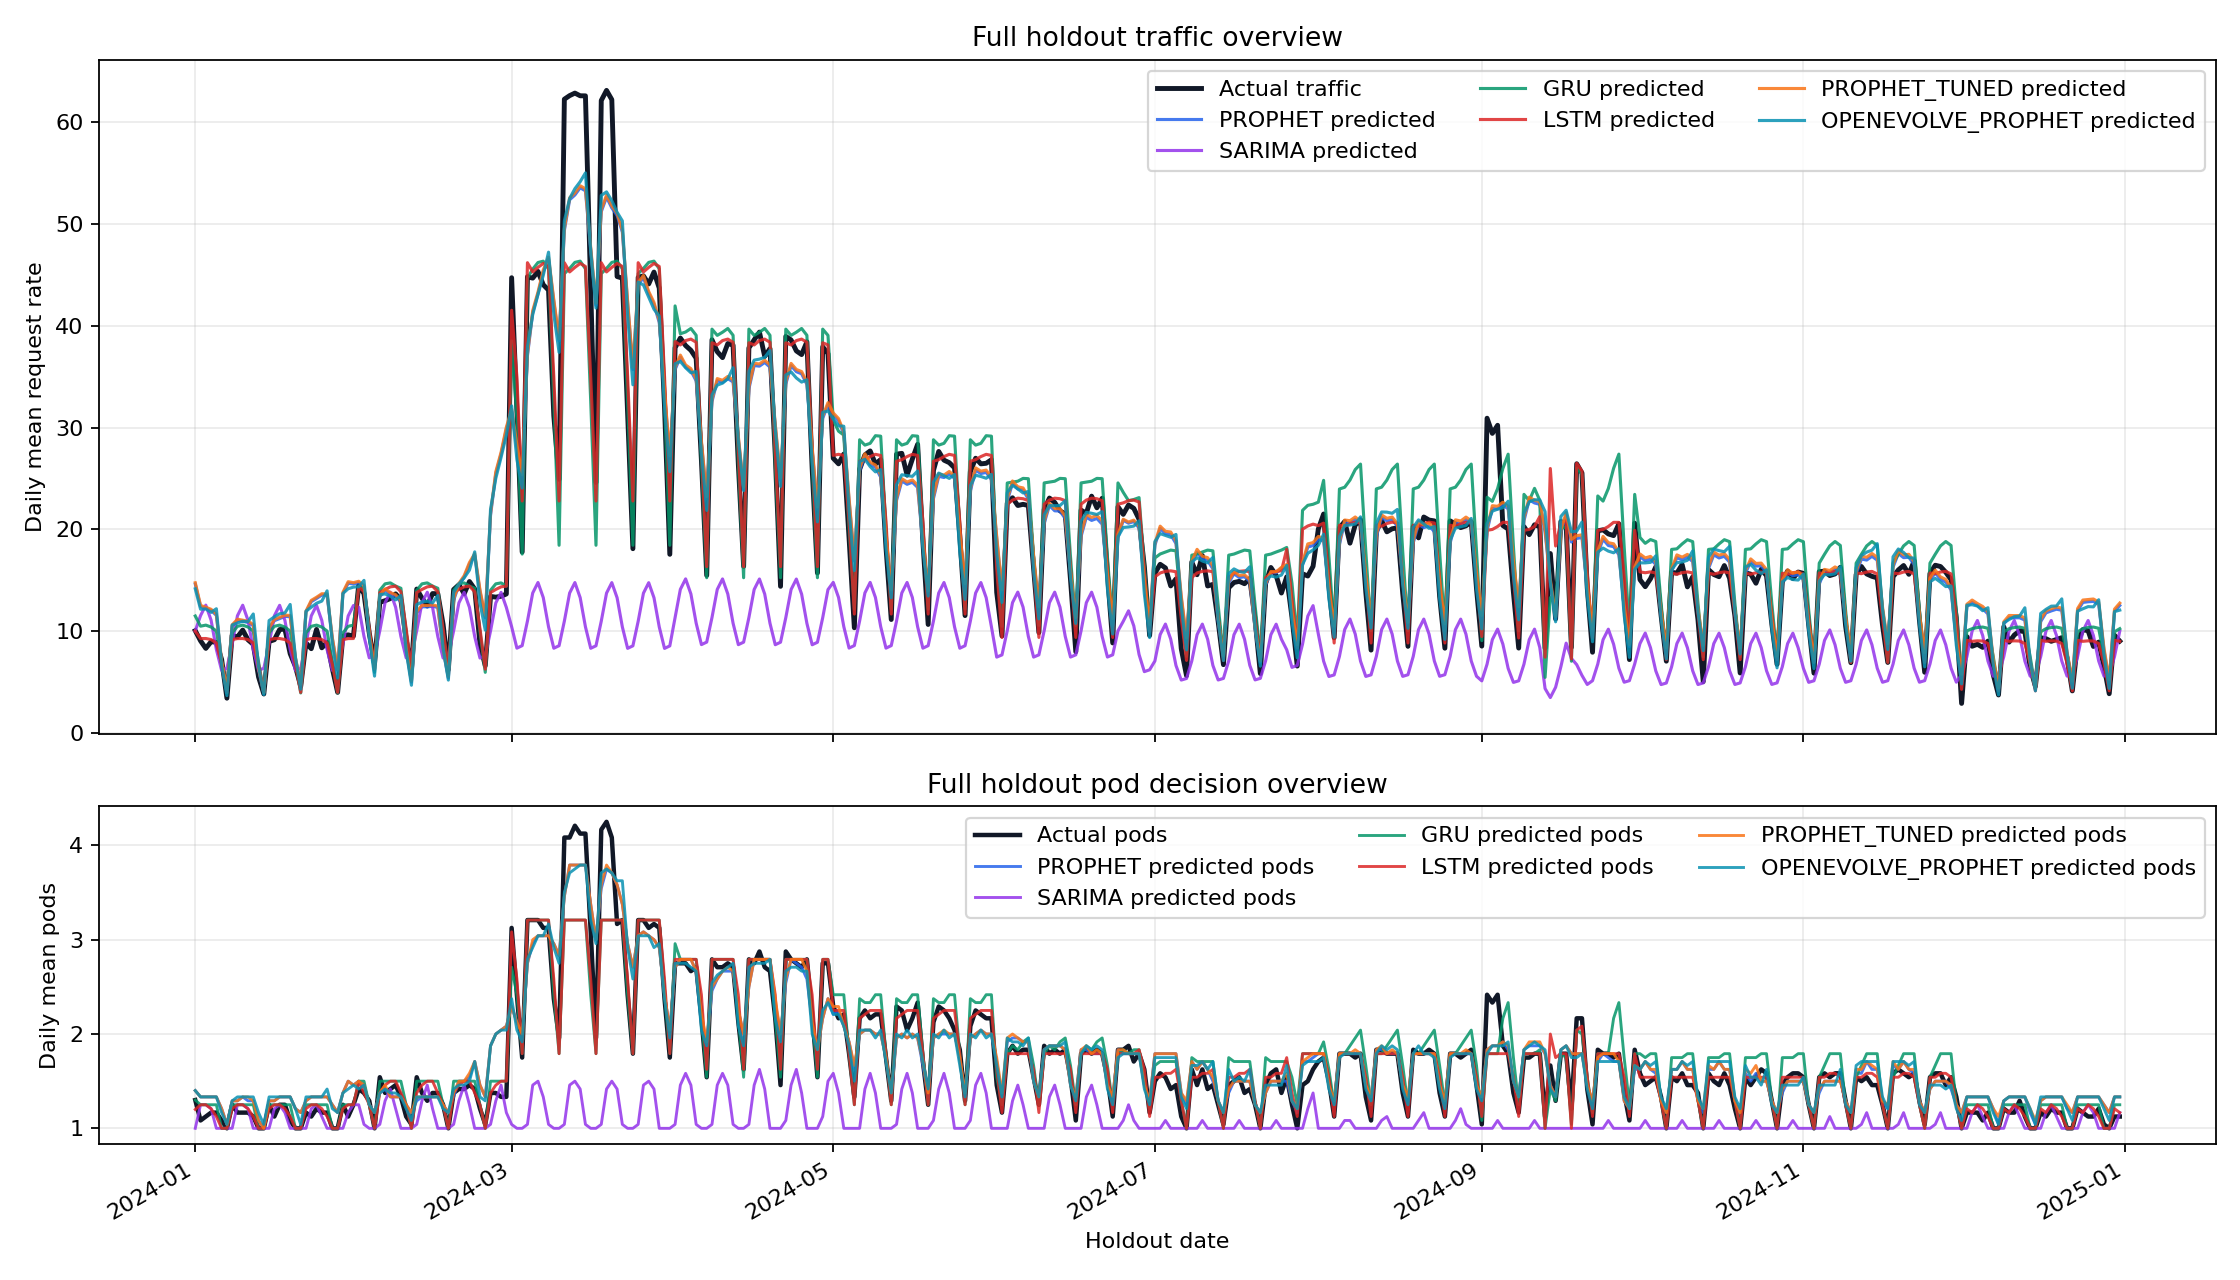
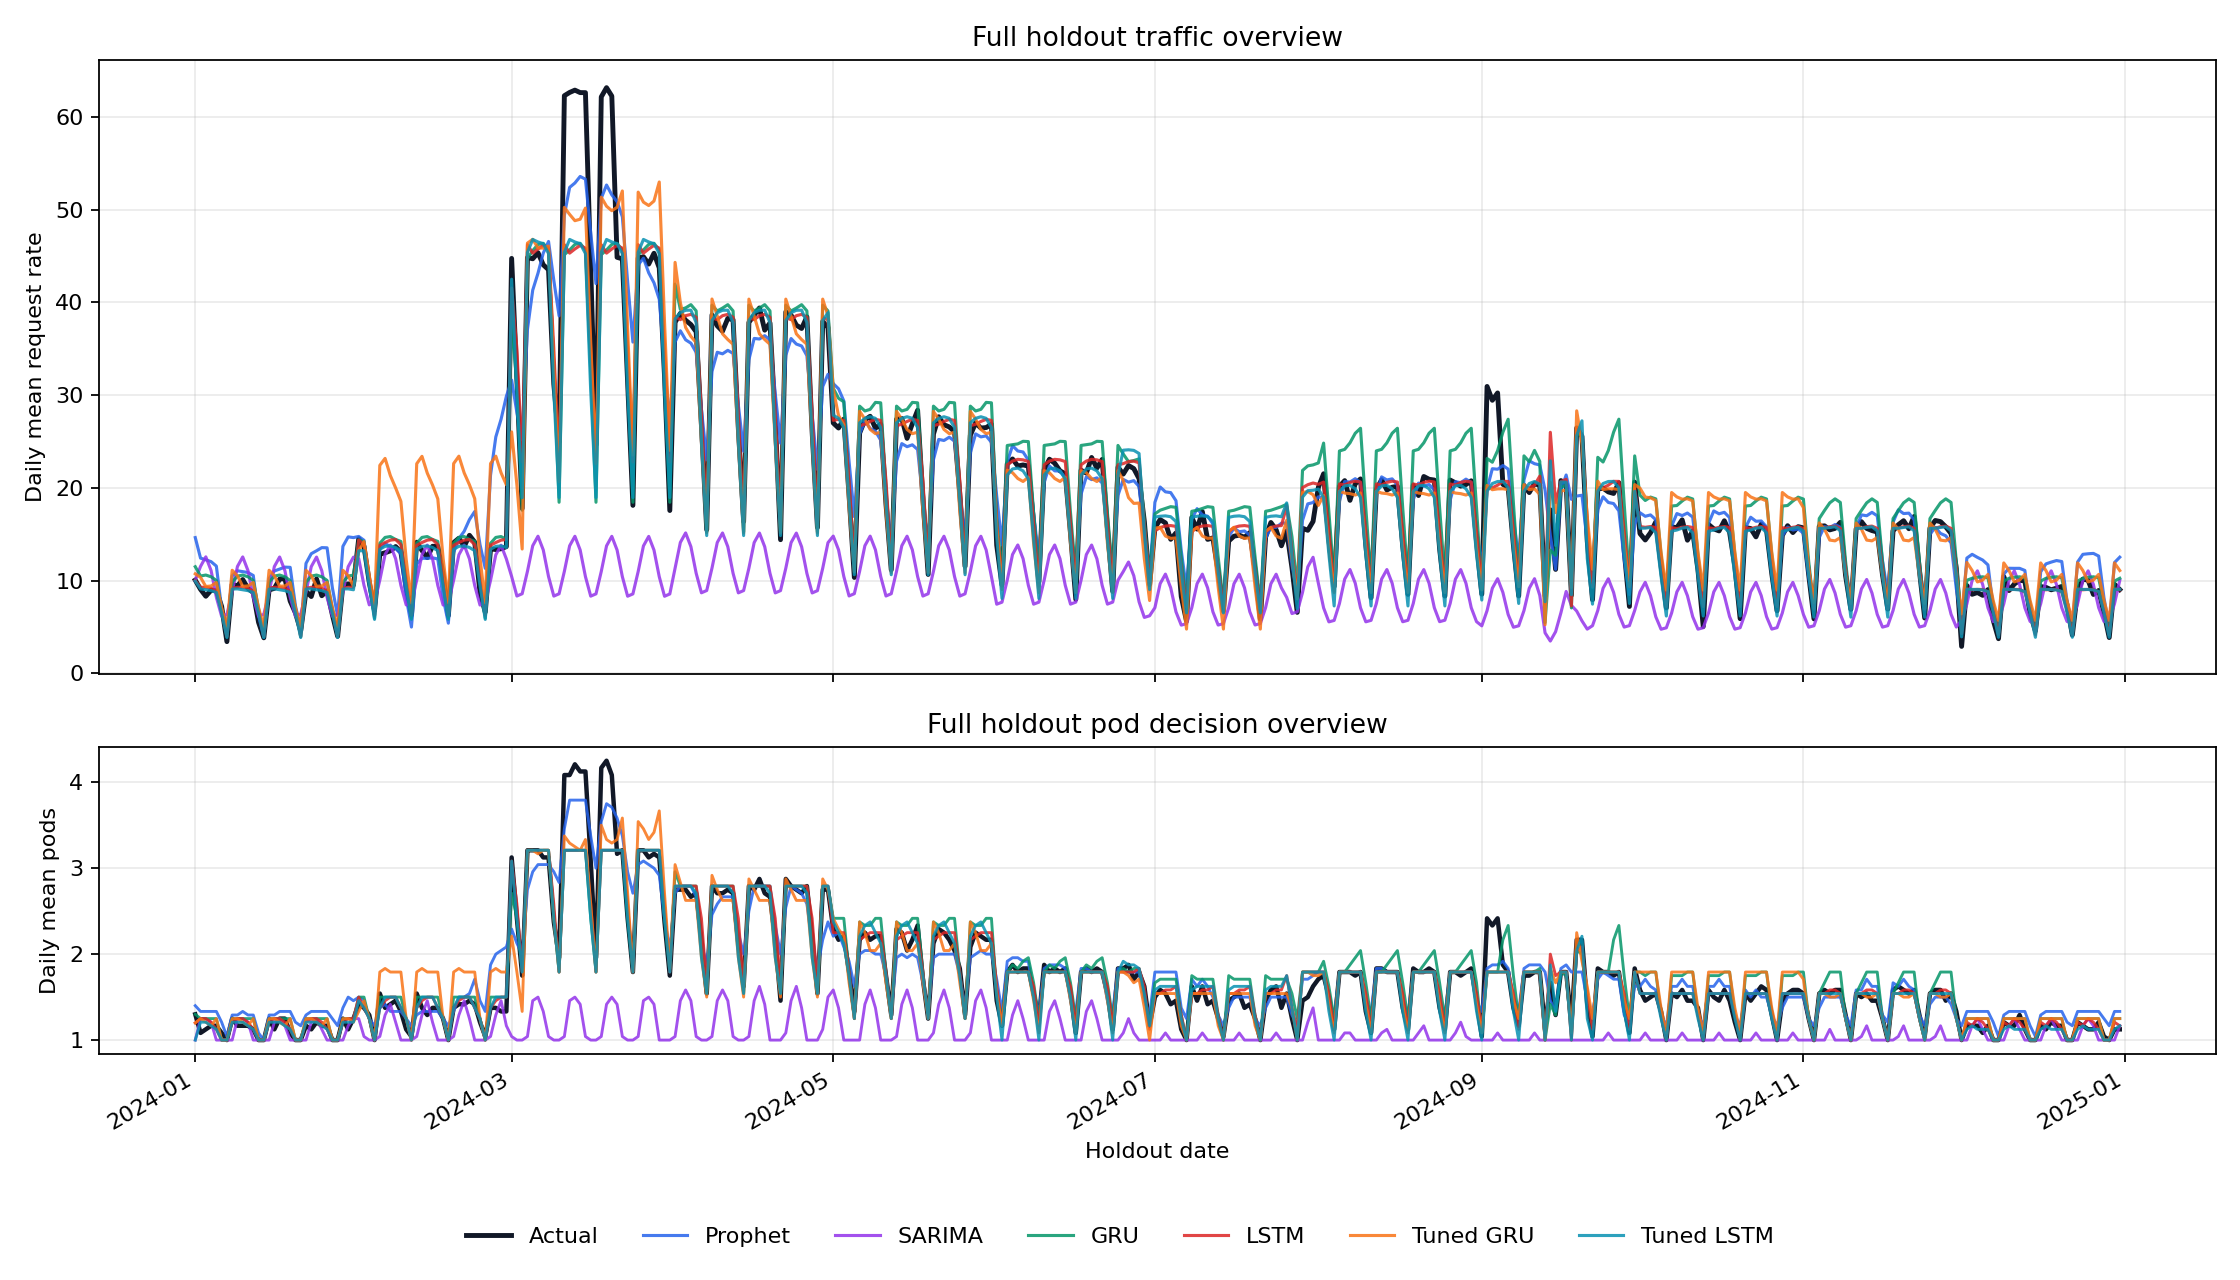
#25 feat: 튜닝 모델 비교 시각화 추가

diff --git a/src/evaluation/plot_sequence_tuning_comparison.py b/src/evaluation/plot_sequence_tuning_comparison.py
@@ -1,0 +1,95 @@
+"""Plot baseline vs tuned sequence model metrics."""
+
+from __future__ import annotations
+
+import argparse
+import json
+from pathlib import Path
+
+import matplotlib
+
+matplotlib.use("Agg")
+
+import matplotlib.pyplot as plt
+import pandas as pd
+
+
+PROJECT_ROOT = Path(__file__).resolve().parents[2]
+RESULTS_DIR = PROJECT_ROOT / "experiments" / "results"
+ASSETS_DIR = PROJECT_ROOT / "docs" / "assets"
+MODEL_PAIRS = {
+    "GRU": ("gru", "gru_tuned"),
+    "LSTM": ("lstm", "lstm_tuned"),
+}
+METRICS = [
+    ("smape", "SMAPE", "lower is better"),
+    ("pod_accuracy", "Pod accuracy", "higher is better"),
+    ("under_provisioning_rate", "Under-provisioning rate", "lower is better"),
+    ("over_provisioning_rate", "Over-provisioning rate", "lower is better"),
+]
+
+
+def parse_args() -> argparse.Namespace:
+    parser = argparse.ArgumentParser(description="Create baseline vs tuned sequence model metric plot.")
+    parser.add_argument("--results-dir", type=Path, default=RESULTS_DIR)
+    parser.add_argument("--output", type=Path, default=ASSETS_DIR / "sequence_tuning_metric_comparison.png")
+    return parser.parse_args()
+
+
+def load_metric(results_dir: Path, model: str) -> dict[str, float]:
+    path = results_dir / f"{model}_metrics.json"
+    if not path.exists():
+        raise FileNotFoundError(f"Metric file not found: {path}")
+
+    with path.open("r", encoding="utf-8") as file:
+        data = json.load(file)
+    return {name: float(data[name]) for name, _, _ in METRICS}
+
+
+def build_metric_frame(results_dir: Path) -> pd.DataFrame:
+    rows = []
+    for family, (baseline, tuned) in MODEL_PAIRS.items():
+        for label, model in [("Baseline", baseline), ("Tuned", tuned)]:
+            metrics = load_metric(results_dir, model)
+            rows.append({"family": family, "label": label, "model": model, **metrics})
+    return pd.DataFrame(rows)
+
+
+def plot_metric_frame(frame: pd.DataFrame, output_path: Path) -> None:
+    fig, axes = plt.subplots(2, 2, figsize=(11, 8))
+    axes = axes.flatten()
+    colors = {"Baseline": "#2563eb", "Tuned": "#f97316"}
+
+    for axis, (metric, title, direction) in zip(axes, METRICS):
+        pivot = frame.pivot(index="family", columns="label", values=metric).loc[["GRU", "LSTM"]]
+        pivot[["Baseline", "Tuned"]].plot(
+            kind="bar",
+            ax=axis,
+            color=[colors["Baseline"], colors["Tuned"]],
+            width=0.72,
+            legend=False,
+        )
+        axis.set_title(f"{title} ({direction})")
+        axis.set_xlabel("")
+        axis.set_ylabel(metric)
+        axis.tick_params(axis="x", rotation=0)
+        axis.grid(axis="y", alpha=0.25)
+
+    handles, labels = axes[0].get_legend_handles_labels()
+    fig.suptitle("Sequence Model Tuning: Baseline vs Tuned", fontsize=14, y=0.99)
+    fig.legend(handles, labels, loc="upper center", bbox_to_anchor=(0.5, 0.955), ncol=2, frameon=False)
+    fig.tight_layout(rect=(0, 0, 1, 0.91))
+    output_path.parent.mkdir(parents=True, exist_ok=True)
+    fig.savefig(output_path, dpi=160)
+    plt.close(fig)
+
+
+def main() -> None:
+    args = parse_args()
+    frame = build_metric_frame(args.results_dir)
+    plot_metric_frame(frame, args.output)
+    print(f"Saved sequence tuning metric comparison plot to {args.output}")
+
+
+if __name__ == "__main__":
+    main()

diff --git a/src/evaluation/plot_holdout_overview.py b/src/evaluation/plot_holdout_overview.py
@@ -1,4 +1,4 @@
-"""Plot one-year holdout overview for all candidate models."""
+"""Plot one-year holdout overview for baseline and tuned sequence candidates."""
 
 from __future__ import annotations
 
@@ -14,14 +14,22 @@ import pandas as pd
 
 
 PROJECT_ROOT = Path(__file__).resolve().parents[2]
-MODEL_NAMES = ("prophet", "sarima", "gru", "lstm", "prophet_tuned", "openevolve_prophet")
+MODEL_NAMES = ("prophet", "sarima", "gru", "lstm", "gru_tuned", "lstm_tuned")
 MODEL_COLORS = {
     "prophet": "#2563eb",
     "sarima": "#9333ea",
     "gru": "#059669",
     "lstm": "#dc2626",
-    "prophet_tuned": "#f97316",
-    "openevolve_prophet": "#0891b2",
+    "gru_tuned": "#f97316",
+    "lstm_tuned": "#0891b2",
+}
+MODEL_LABELS = {
+    "prophet": "Prophet",
+    "sarima": "SARIMA",
+    "gru": "GRU",
+    "lstm": "LSTM",
+    "gru_tuned": "Tuned GRU",
+    "lstm_tuned": "Tuned LSTM",
 }
 
 
@@ -90,12 +98,12 @@ def plot_overview(traffic: pd.DataFrame, pods: pd.DataFrame, output_path: Path) 
         gridspec_kw={"height_ratios": [2, 1]},
     )
 
-    traffic_ax.plot(traffic.index, traffic["actual"], label="Actual traffic", color="#111827", linewidth=2.2)
+    traffic_ax.plot(traffic.index, traffic["actual"], label="Actual", color="#111827", linewidth=2.2)
     for model in MODEL_NAMES:
         traffic_ax.plot(
             traffic.index,
             traffic[model],
-            label=f"{model.upper()} predicted",
+            label=MODEL_LABELS[model],
             color=MODEL_COLORS[model],
             linewidth=1.4,
             alpha=0.85,
@@ -104,14 +112,13 @@ def plot_overview(traffic: pd.DataFrame, pods: pd.DataFrame, output_path: Path) 
     traffic_ax.set_title("Full holdout traffic overview")
     traffic_ax.set_ylabel("Daily mean request rate")
     traffic_ax.grid(alpha=0.25)
-    traffic_ax.legend(ncol=3, loc="upper right")
 
-    pod_ax.plot(pods.index, pods["actual_pods"], label="Actual pods", color="#111827", linewidth=2.0)
+    pod_ax.plot(pods.index, pods["actual_pods"], label="Actual", color="#111827", linewidth=2.0)
     for model in MODEL_NAMES:
         pod_ax.plot(
             pods.index,
             pods[model],
-            label=f"{model.upper()} predicted pods",
+            label=MODEL_LABELS[model],
             color=MODEL_COLORS[model],
             linewidth=1.3,
             alpha=0.85,
@@ -121,10 +128,11 @@ def plot_overview(traffic: pd.DataFrame, pods: pd.DataFrame, output_path: Path) 
     pod_ax.set_ylabel("Daily mean pods")
     pod_ax.set_xlabel("Holdout date")
     pod_ax.grid(alpha=0.25)
-    pod_ax.legend(ncol=3, loc="upper right")
 
     fig.autofmt_xdate()
-    fig.tight_layout()
+    handles, labels = traffic_ax.get_legend_handles_labels()
+    fig.legend(handles, labels, loc="lower center", bbox_to_anchor=(0.5, 0.01), ncol=7, frameon=False)
+    fig.tight_layout(rect=(0, 0.07, 1, 1))
     output_path.parent.mkdir(parents=True, exist_ok=True)
     fig.savefig(output_path, dpi=160)
     plt.close(fig)

diff --git a/src/evaluation/compare_models.py b/src/evaluation/compare_models.py
@@ -13,7 +13,7 @@ import pandas as pd
 PROJECT_ROOT = Path(__file__).resolve().parents[2]
 RESULTS_DIR = PROJECT_ROOT / "experiments" / "results"
 PLOTS_DIR = PROJECT_ROOT / "experiments" / "plots"
-MODEL_NAMES = ["prophet", "sarima", "gru", "lstm", "prophet_tuned", "openevolve_prophet"]
+MODEL_NAMES = ["prophet", "sarima", "gru", "lstm", "gru_tuned", "lstm_tuned"]
 METRIC_COLUMNS = [
     "smape",
     "pod_accuracy",
@@ -112,17 +112,18 @@ def plot_comparison(ranked: pd.DataFrame, output_path: Path) -> None:
     matplotlib.use("Agg")
     import matplotlib.pyplot as plt
 
-    fig, axes = plt.subplots(2, 2, figsize=(11, 7))
+    fig, axes = plt.subplots(2, 2, figsize=(12, 8))
     axes = axes.flatten()
 
     for axis, metric in zip(axes, METRIC_COLUMNS):
-        axis.bar(ranked["model"], ranked[metric])
+        axis.barh(ranked["model"], ranked[metric], color="#2563eb")
         axis.set_title(metric)
-        axis.set_ylim(0, max(1.0, ranked[metric].max() * 1.15))
-        axis.tick_params(axis="x", rotation=20)
+        axis.set_xlim(0, max(1.0, ranked[metric].max() * 1.15))
+        axis.invert_yaxis()
+        axis.grid(axis="x", alpha=0.25)
 
     fig.suptitle("Model Comparison Metrics", fontsize=14)
-    fig.tight_layout()
+    fig.tight_layout(rect=(0, 0, 1, 0.96))
     fig.savefig(output_path, dpi=150)
     plt.close(fig)
 

diff --git a/src/evaluation/plot_holdout_comparison.py b/src/evaluation/plot_holdout_comparison.py
@@ -17,7 +17,7 @@ from matplotlib.patches import Patch
 PROJECT_ROOT = Path(__file__).resolve().parents[2]
 DEFAULT_MODEL = "prophet"
 DEFAULT_DAYS = 30
-MODEL_NAMES = ("prophet", "sarima", "gru", "lstm", "prophet_tuned", "openevolve_prophet")
+MODEL_NAMES = ("prophet", "sarima", "gru", "lstm", "gru_tuned", "lstm_tuned")
 
 
 def parse_args() -> argparse.Namespace:
